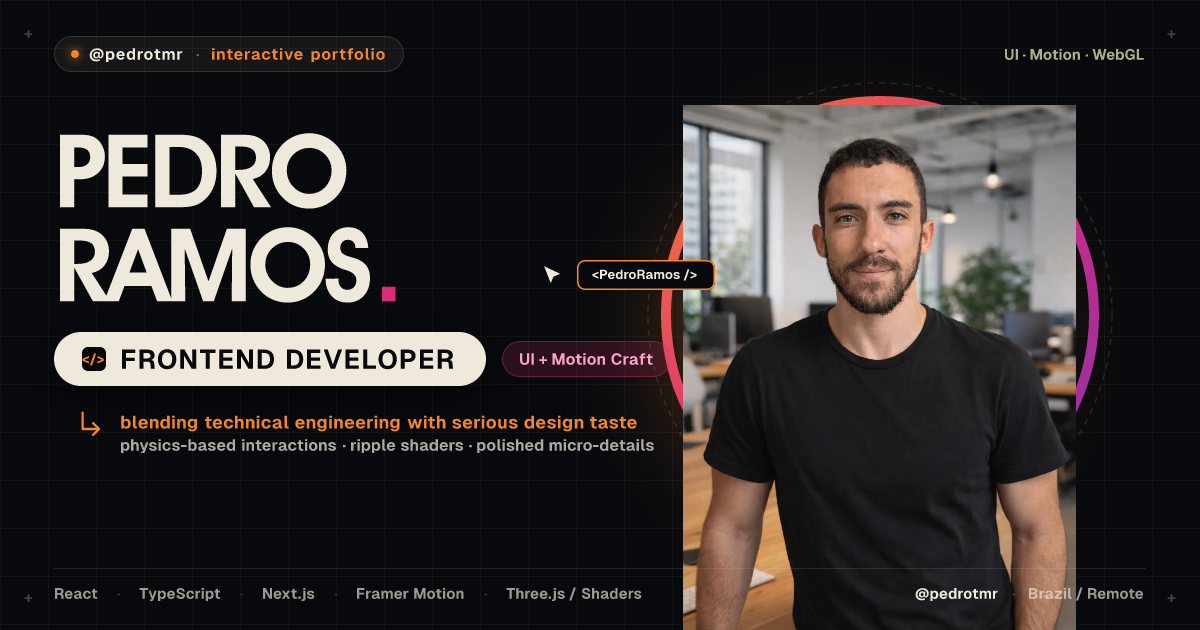
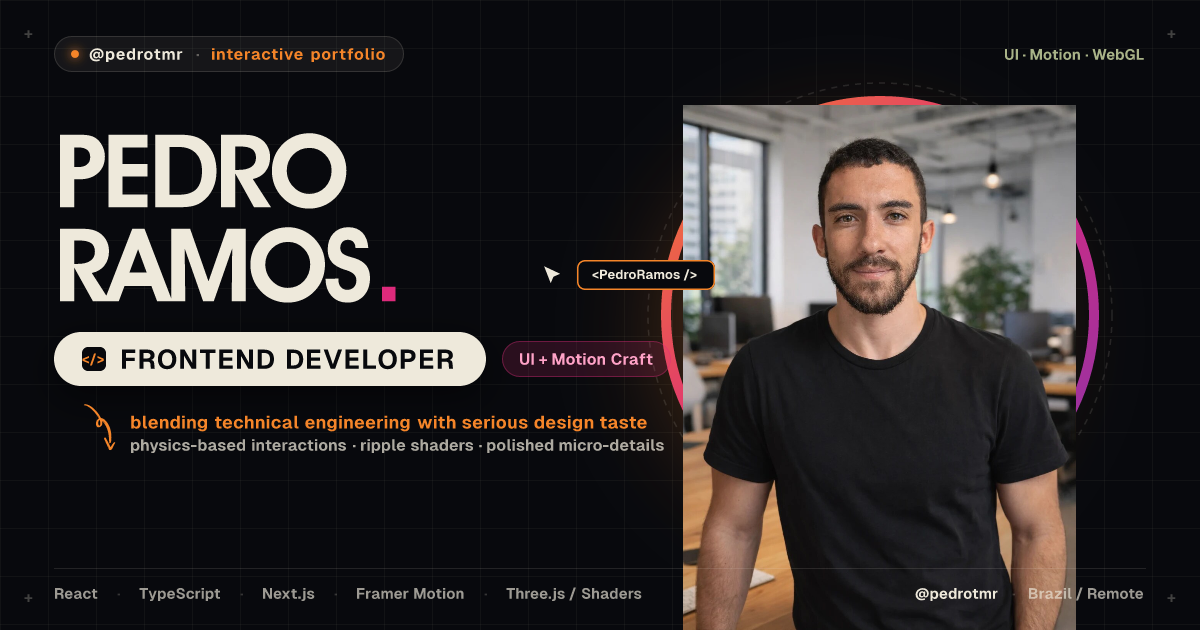
polish: angle hand-drawn share card arrow

Changed region(s): [[0.0617, 0.6333, 0.555, 0.7238]]

diff --git a/app/opengraph-image.tsx b/app/opengraph-image.tsx
@@ -351,7 +351,7 @@ export default async function OpenGraphImage({ id }: { id: string }) {
             </div>
           </div>
 
-          {/* A precise branch marker echoes the portfolio's motion language. */}
+          {/* Hand-drawn annotation echoes the portfolio's motion language. */}
           <div
             style={{
               display: 'flex',
@@ -361,13 +361,23 @@ export default async function OpenGraphImage({ id }: { id: string }) {
               marginLeft: 24,
             }}
           >
-            <svg width="28" height="28" viewBox="0 0 24 24" fill="none">
+            <svg
+              viewBox="0 0 24 27.176"
+              width="38"
+              height="42"
+              style={{ transform: 'scaleX(-1) rotate(-10deg)' }}
+            >
               <path
-                d="M4 4v14h14m-5-5 5 5-5 5"
-                stroke="#F58529"
-                strokeWidth="2"
-                strokeLinecap="round"
-                strokeLinejoin="round"
+                fill="#F58529"
+                fillRule="evenodd"
+                clipRule="evenodd"
+                d="m12.849 7.741 1.668-1.968a7.6 7.6 0 0 0-1.668 1.968m-4.672 3.183c.723-.678 1.415-1.374 2.204-1.963-.93.439-1.591 1.182-2.204 1.963m3.561 1.381c.186.333.376.168.555.027.606-.477.652-1.183.689-1.859.027-.493-.007-1.008-.262-1.463-.097-.173-.222-.284-.374-.032-.414.687-.726 1.411-.784 2.221-.028.386.018.766.176 1.105m-1.134-2.952c-.553.284-.984.731-1.424 1.159-1.9 1.852-3.092 4.12-3.919 6.614-.552 1.666-.941 3.368-1.27 5.087-.03.157-.055.317-.163.443-.122.142-.237.192-.283-.053-.011-.061.031-.148-.081-.122-.387.089-.436-.202-.504-.454-.127-.472-.039-.952.001-1.423.113-1.319.277-2.635.611-3.918.311-1.191.791-2.323 1.302-3.442.325-.712.666-1.432 1.214-1.985.364-.367.56-.833.912-1.196.675-.697 1.355-1.383 2.172-1.918.673-.44 1.409-.681 2.213-.684a.72.72 0 0 0 .611-.301 45 45 0 0 1 1.288-1.584c.712-.842 1.554-1.567 2.419-2.254 1.38-1.097 2.85-2.041 4.533-2.613.989-.336 1.986-.604 3.041-.316.278.076.521.196.665.464.062.115.076.222-.008.334-.099.132-.164.045-.274-.005-.752-.344-1.457-.039-2.16.195-1.938.643-3.566 1.801-5.111 3.094a21.4 21.4 0 0 0-3.202 3.304c-.075.097-.212.172-.024.31.658.481.994 1.169 1.133 1.946.215 1.199.096 2.34-.798 3.266-.48.498-.972.532-1.594.236-1.582-.752-1.887-2.371-1.37-3.743l.139-.368z"
+              />
+              <path
+                fill="#F58529"
+                fillRule="evenodd"
+                clipRule="evenodd"
+                d="M4.496 24.376c-.552.601-1.01 1.264-1.331 2.014zm-3.028-2.027c.397.725.664 1.505.96 2.272.044.115.036.272.221.288.178.015.224-.132.277-.238.291-.579.736-1.039 1.124-1.546.246-.32.432-.689.695-1.009.404-.494.771-1.019 1.14-1.541.187-.264.49-.429.583-.78.091-.345.365-.415.843-.205.244.108.443.323.313.634a4.3 4.3 0 0 1-.391.737c-1.025 1.518-2.063 3.027-3.09 4.544-.231.34-.438.697-.653 1.048-.389.639-.678.695-1.314.294-.494-.311-.767-.741-.883-1.308-.224-1.092-.479-2.178-.906-3.214-.086-.208-.2-.403-.294-.607-.109-.236-.037-.355.232-.334.596.046.69.124 1.144.964"
               />
             </svg>
             <div
